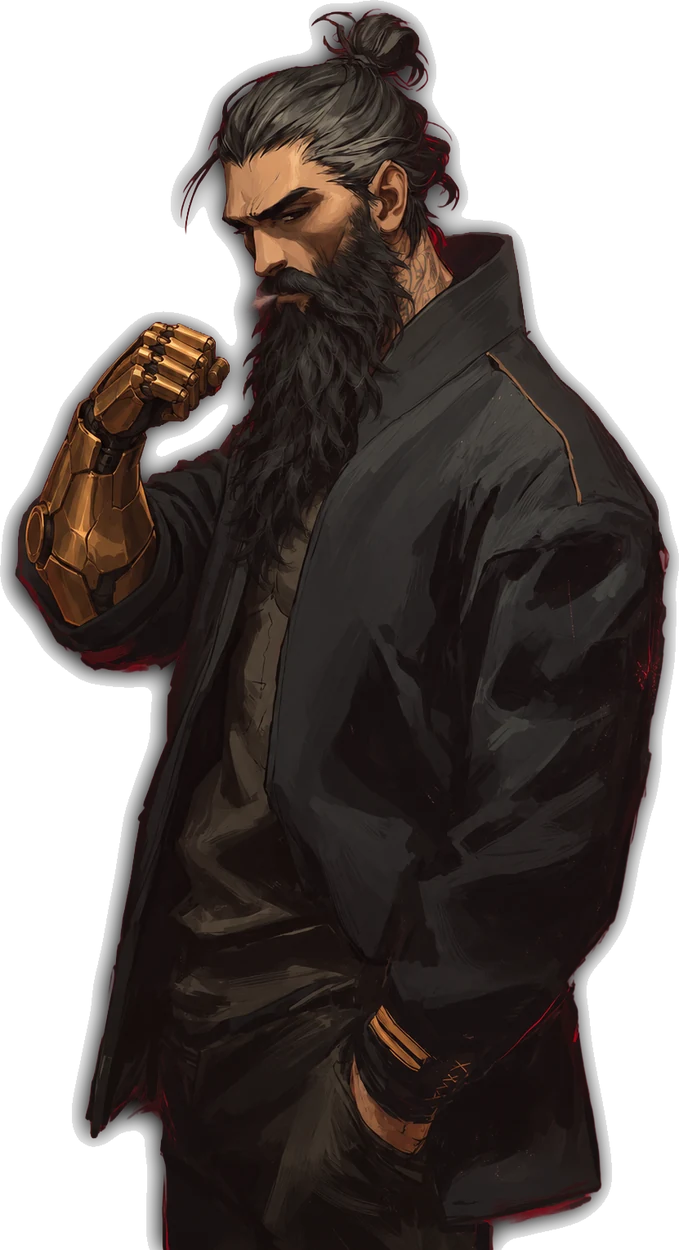
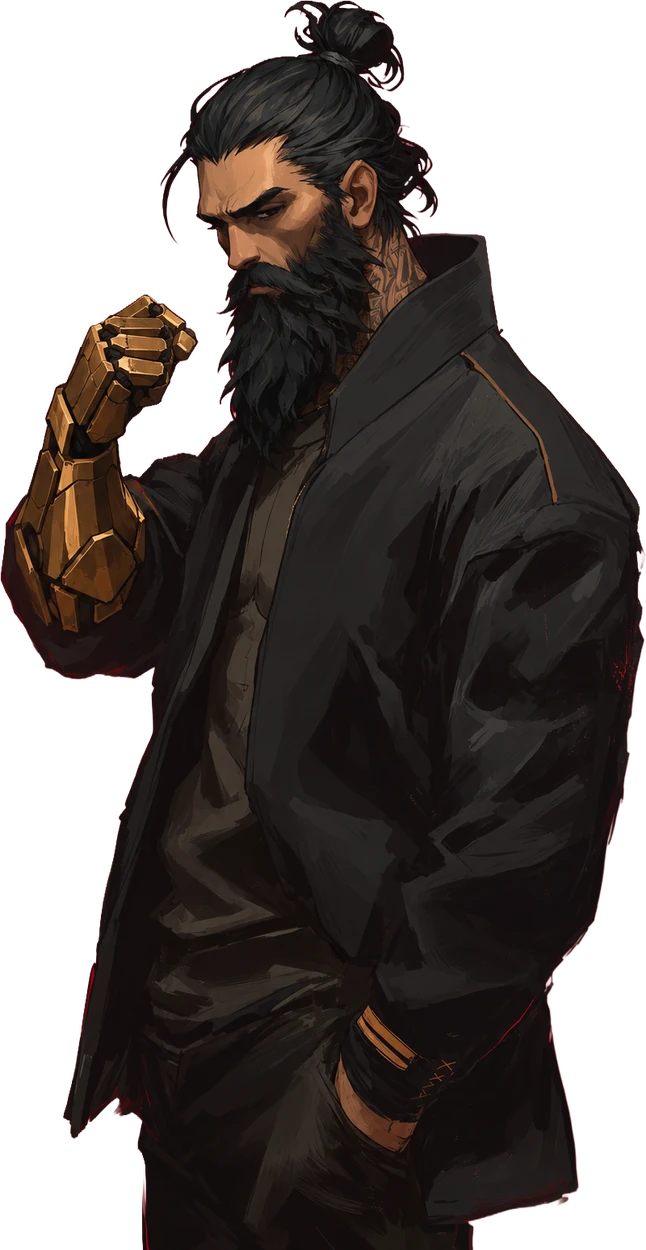
Dossier: new Fist portrait, smoke removed
Claude-Session: https://claude.ai/code/session_017L5wioV3Fut11G33ajrwvH

diff --git a/index.html b/index.html
@@ -2664,7 +2664,7 @@ body.zolo .whosw button[aria-pressed="true"]{color:#0b0c0e;background:var(--gold
   var IOP = {
     stare:{src:"img/io-stare.webp", w:740, h:1150, alt:"Iō, chest up: long black beard, top bun, gold cyberarm, staring down the viewer"},
     standing:{src:"img/io-standing.webp", w:723, h:1150, alt:"Iō standing, from just below the waist up: black gi, red sash, gold cyberarm, hands behind his back"},
-    fist:{src:"img/io-fist.webp", w:679, h:1250, mouth:[.38,.237], alt:"Iō from the hip up, gold cyber-fist raised, long black beard and top bun"}};
+    fist:{src:"img/io-fist.webp", w:646, h:1250, alt:"Iō from the hip up, gold cyber-fist raised, long black beard and top bun"}};
   var IOPK = "fist"; try { var q = localStorage.getItem("io-portrait"); if (IOP[q]) IOPK = q; } catch(e){}
   var IOPL = [["stare","Stare"],["standing","Standing"],["fist","Fist"]];
   function idColumn(){
